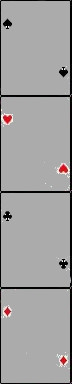
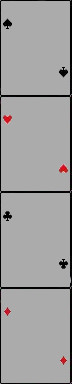
slightly imrpoved calypso placeholder image, and updating notes

diff --git a/calypso.game.php b/calypso.game.php
@@ -1330,7 +1330,7 @@ class Calypso extends Table
             'playCard', 
             clienttranslate('${player_name} (${trump}) plays ${rank_displayed} ${suit_element}'),
             array (
-                'i18n' => array ('suit_displayed','rank_displayed' ),
+                'i18n' => array ('rank_displayed'),
                 'card_id' => $card_id,
                 'player_id' => $player_id,
                 'player_name' => self::getActivePlayerName(),

diff --git a/README.md b/README.md
@@ -7,9 +7,9 @@ For devvy stuff check out [dev notes](misc/dev.md).
 a fluid list to remember what needs to be done before pulling in and starting a new chunk of work
 
 * animations - let calypso cards & trick pile appear after animation is finished rather than early
-* Fix dealer button animation
+* ~~Fix dealer button animation - not really fixed but removed. Fine for now~~
 * New cards in calypso get eaten by calypso animation - need to handle this!
-  * maybe calypso animation should head to player boxes to help signify scoring being there
+  * ~~maybe calypso animation should head to player boxes to help signify scoring being there - parking this idea~~
 
 ## For a different branch
 
@@ -30,15 +30,17 @@ Loosely split into core logic stuff and more nicities, but obviously some overla
 ### Dev
 
 * ~~rename those damn variables to keep a shred of self-consistency check below, do as we go~~
-  *  a bunch of stuff could be cleared up on 'type', e.g. are they _id's_, or descriptors, or what?
+  *  ~~a bunch of stuff could be cleared up on 'type', e.g. are they _id's_, or descriptors, or what?~~
+  * leaving this to general refactoring
 * ~~Add a separate code licence~~, and make repo public once that's done
 * Use game-level constants in place of magic numbers where possible
 * JS `placeCardInCalypso` has redundant `card_id` paramter
 
 ### Display
 
-* see last trick?
-  * maybe optional, as this is not possible exactly in real life, but might be useful for e.g. turn-based
+* ~~see last trick?~~
+  * ~~maybe optional, as this is not possible exactly in real life, but might be useful for e.g. turn-based~~
+  * not for alpha. revisit if desired at a later stage.
 * optional log detail (c.f. Hungarian Tarock)
 * notifications including suit icon
 * Set different default colours
@@ -59,10 +61,10 @@ Loosely split into core logic stuff and more nicities, but obviously some overla
   * ~~Maybe icon is fine actually~~
 * ~~Banner needs completing (fining edges, proper colours exported)~~
 * another display image?
-* card back(s) finalise
+* ~~card back(s) finalise~~
 * suit icons better
 * placeholder calypso cards better
-* ~~dealer icon~~ final version needed
+* ~~dealer icon final version needed~~
 
 ## Things to fix
 
